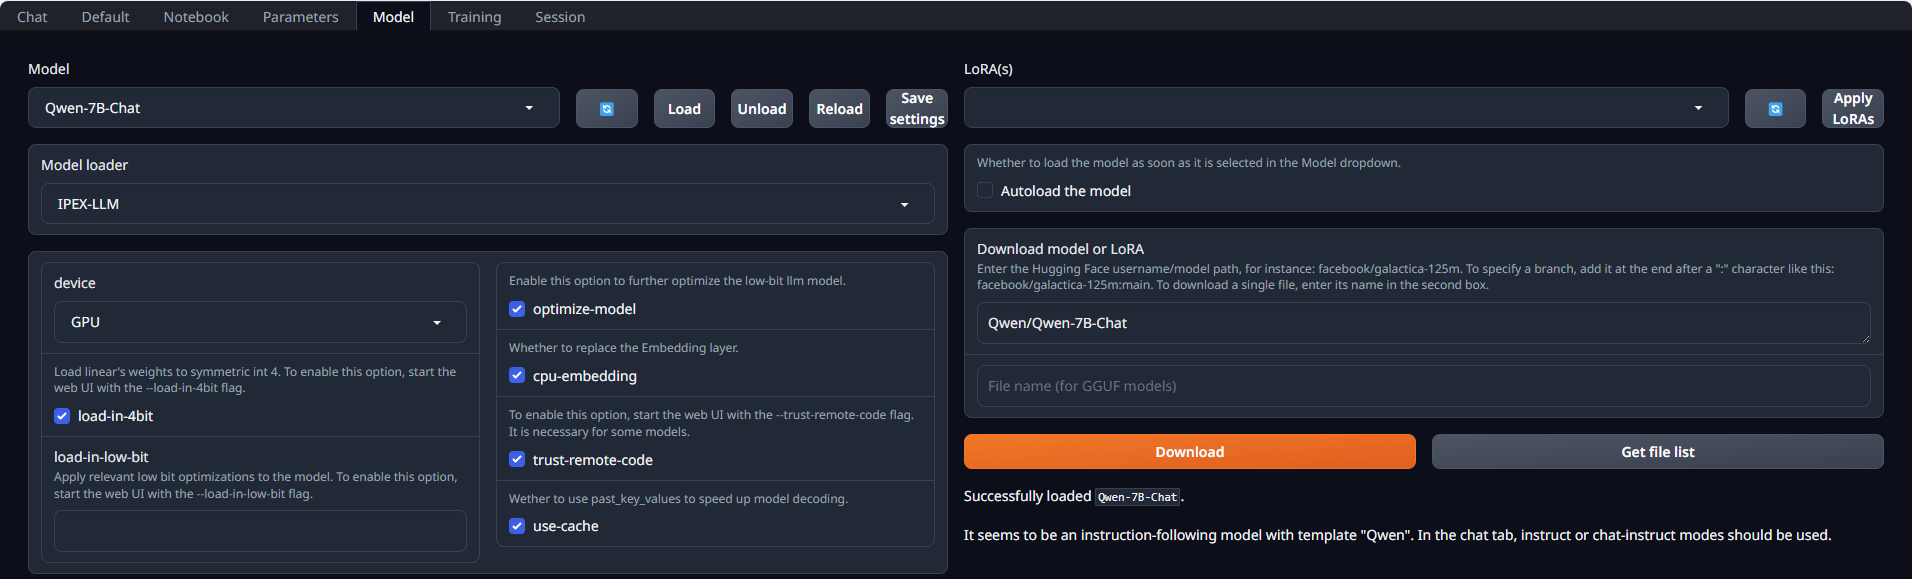
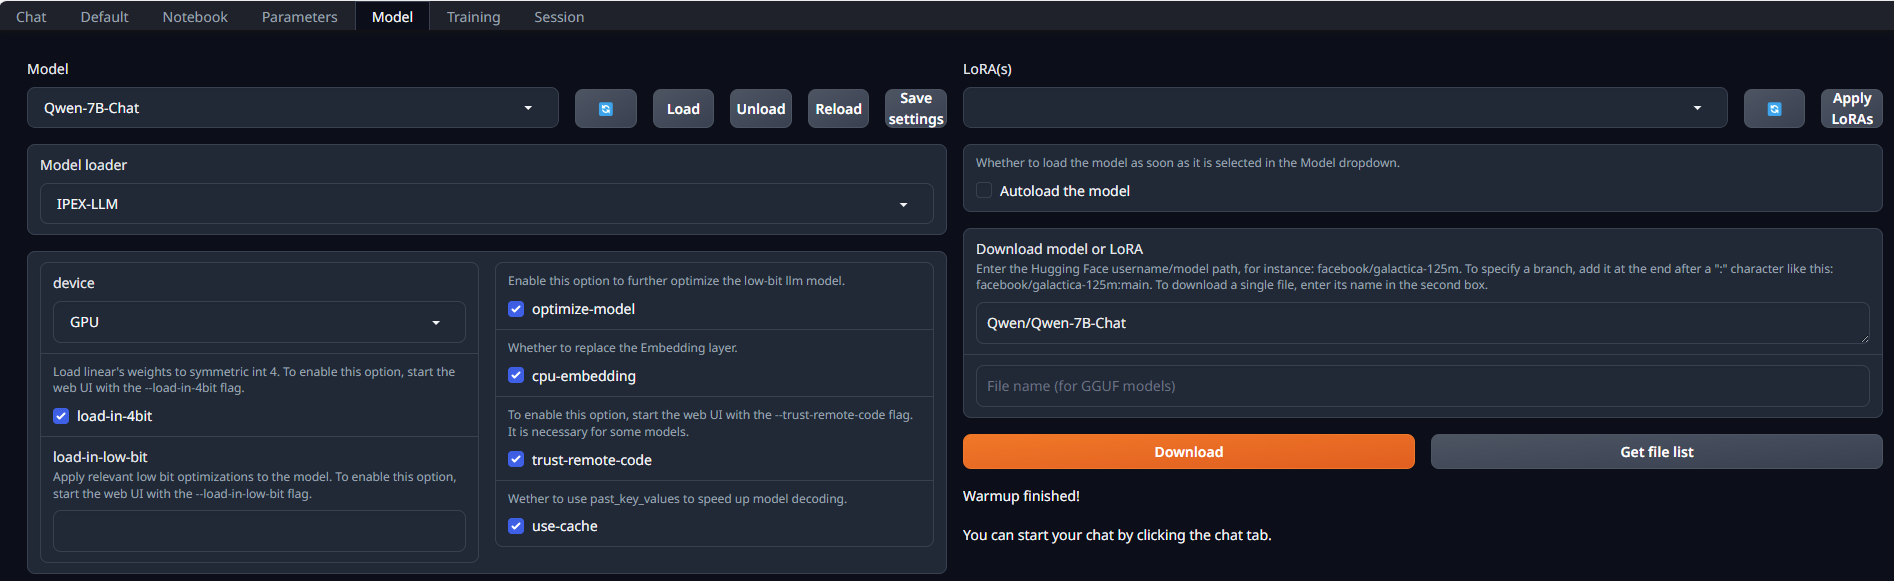
Edits

diff --git a/README.md b/README.md
@@ -13,7 +13,7 @@ For more information, see the user guide below.
 Before starting all the steps, you need to download and unzip the text-generation-webui based on `IPEX-LLM` optimizations.
 
 ```bash
-https://github.com/intel-analytics/text-generation-webui/archive/refs/heads/bigdl-llm.zip
+https://github.com/intel-analytics/text-generation-webui/archive/refs/heads/ipex-llm.zip
 ```
 
 ### 2. Prepare the Environment on Windows
@@ -99,14 +99,10 @@ Notes:
 -  Please select the `optimize-model` and `use_cache` options to accelerate the model.
 
 
-Now you may click the `Load` button to load the model with IPEX-LLM optimizations.
+Now you may click the `Load` button to load the model with IPEX-LLM optimizations. If everything goes well, you will get a message as shown below.
 
 ![Image text](https://github.com/intel-analytics/text-generation-webui/blob/8ebee0651dd56012c4a9e0ba6932efec4c7d1b2e/readme_folder/image3.png)
 
-After the model is loaded, a warm-up process is started in the background. 
-After warm-up is completed, a `Warmup finished!` message is shown.
-
-![Image text](https://github.com/intel-analytics/text-generation-webui/blob/8ebee0651dd56012c4a9e0ba6932efec4c7d1b2e/readme_folder/image3b.png)
 
 ##### 4.4 Run the Model on WebUI
 
